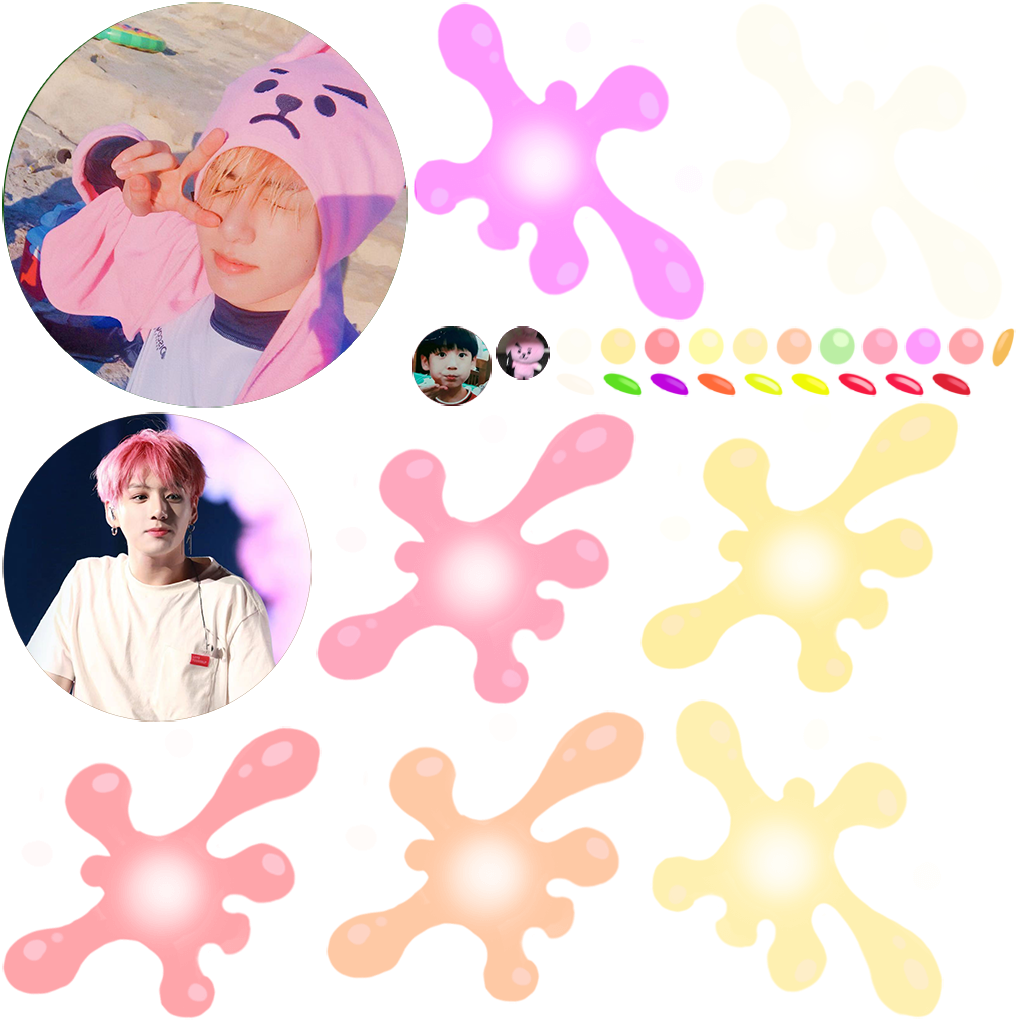
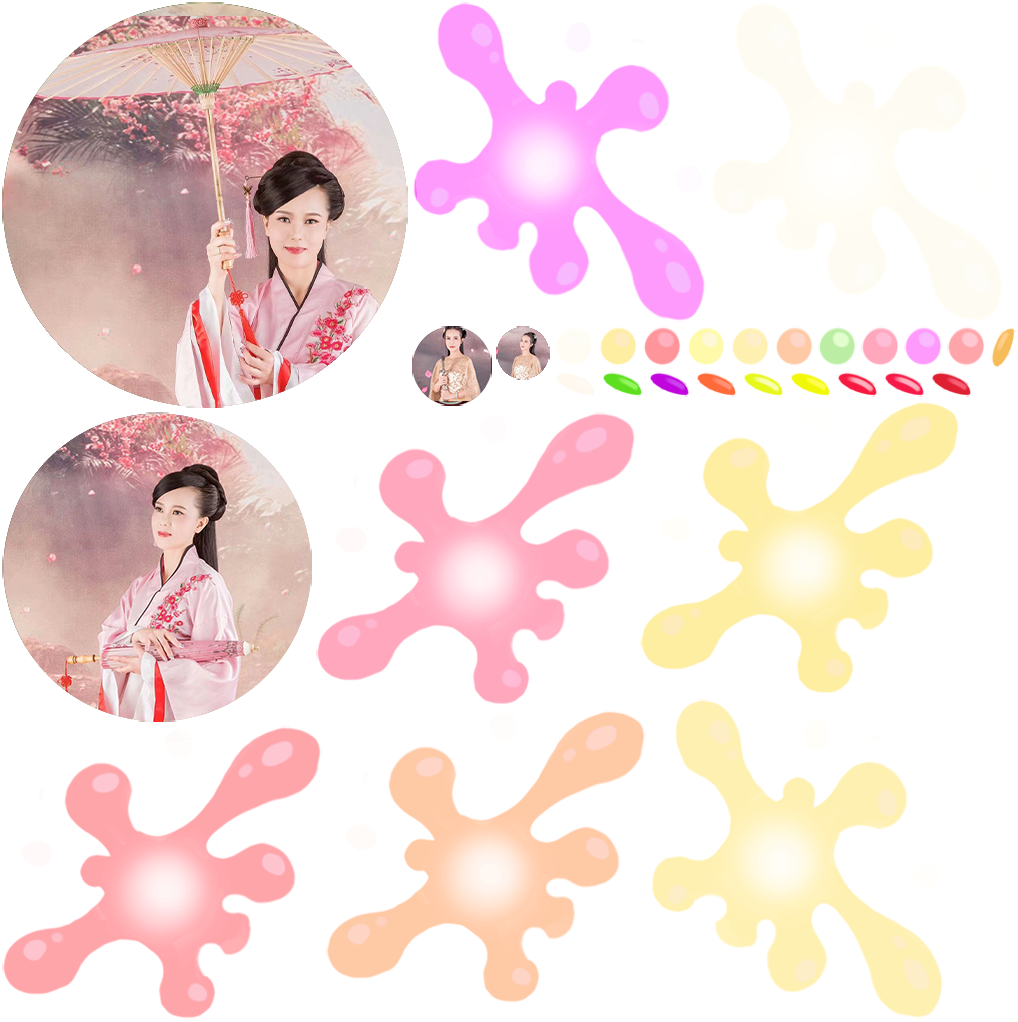
nitial commit

Changed region(s): [[0.0, 0.0, 0.4263, 0.728], [0.3959, 0.3033, 0.5481, 0.3943]]

diff --git a/index.html b/index.html
@@ -4,7 +4,7 @@
 <head>
     <meta charset="utf-8">
 
-    <title>合成田柾国</title>
+    <title>合成仙女s</title>
 
     <!--http://www.html5rocks.com/en/mobile/mobifying/-->
     <meta name="viewport" content="width=device-width,user-scalable=no,initial-scale=1, minimum-scale=1,maximum-scale=1" />
@@ -109,7 +109,7 @@
             //        console.log("window.navigator.language",window.navigator.language);
 
             if (window.navigator.language == "zh-CN" || window.navigator.language == "zh-cn") {
-                document.title = "合成田柾国";
+                document.title = "合成仙女s";
             } 
 
 
